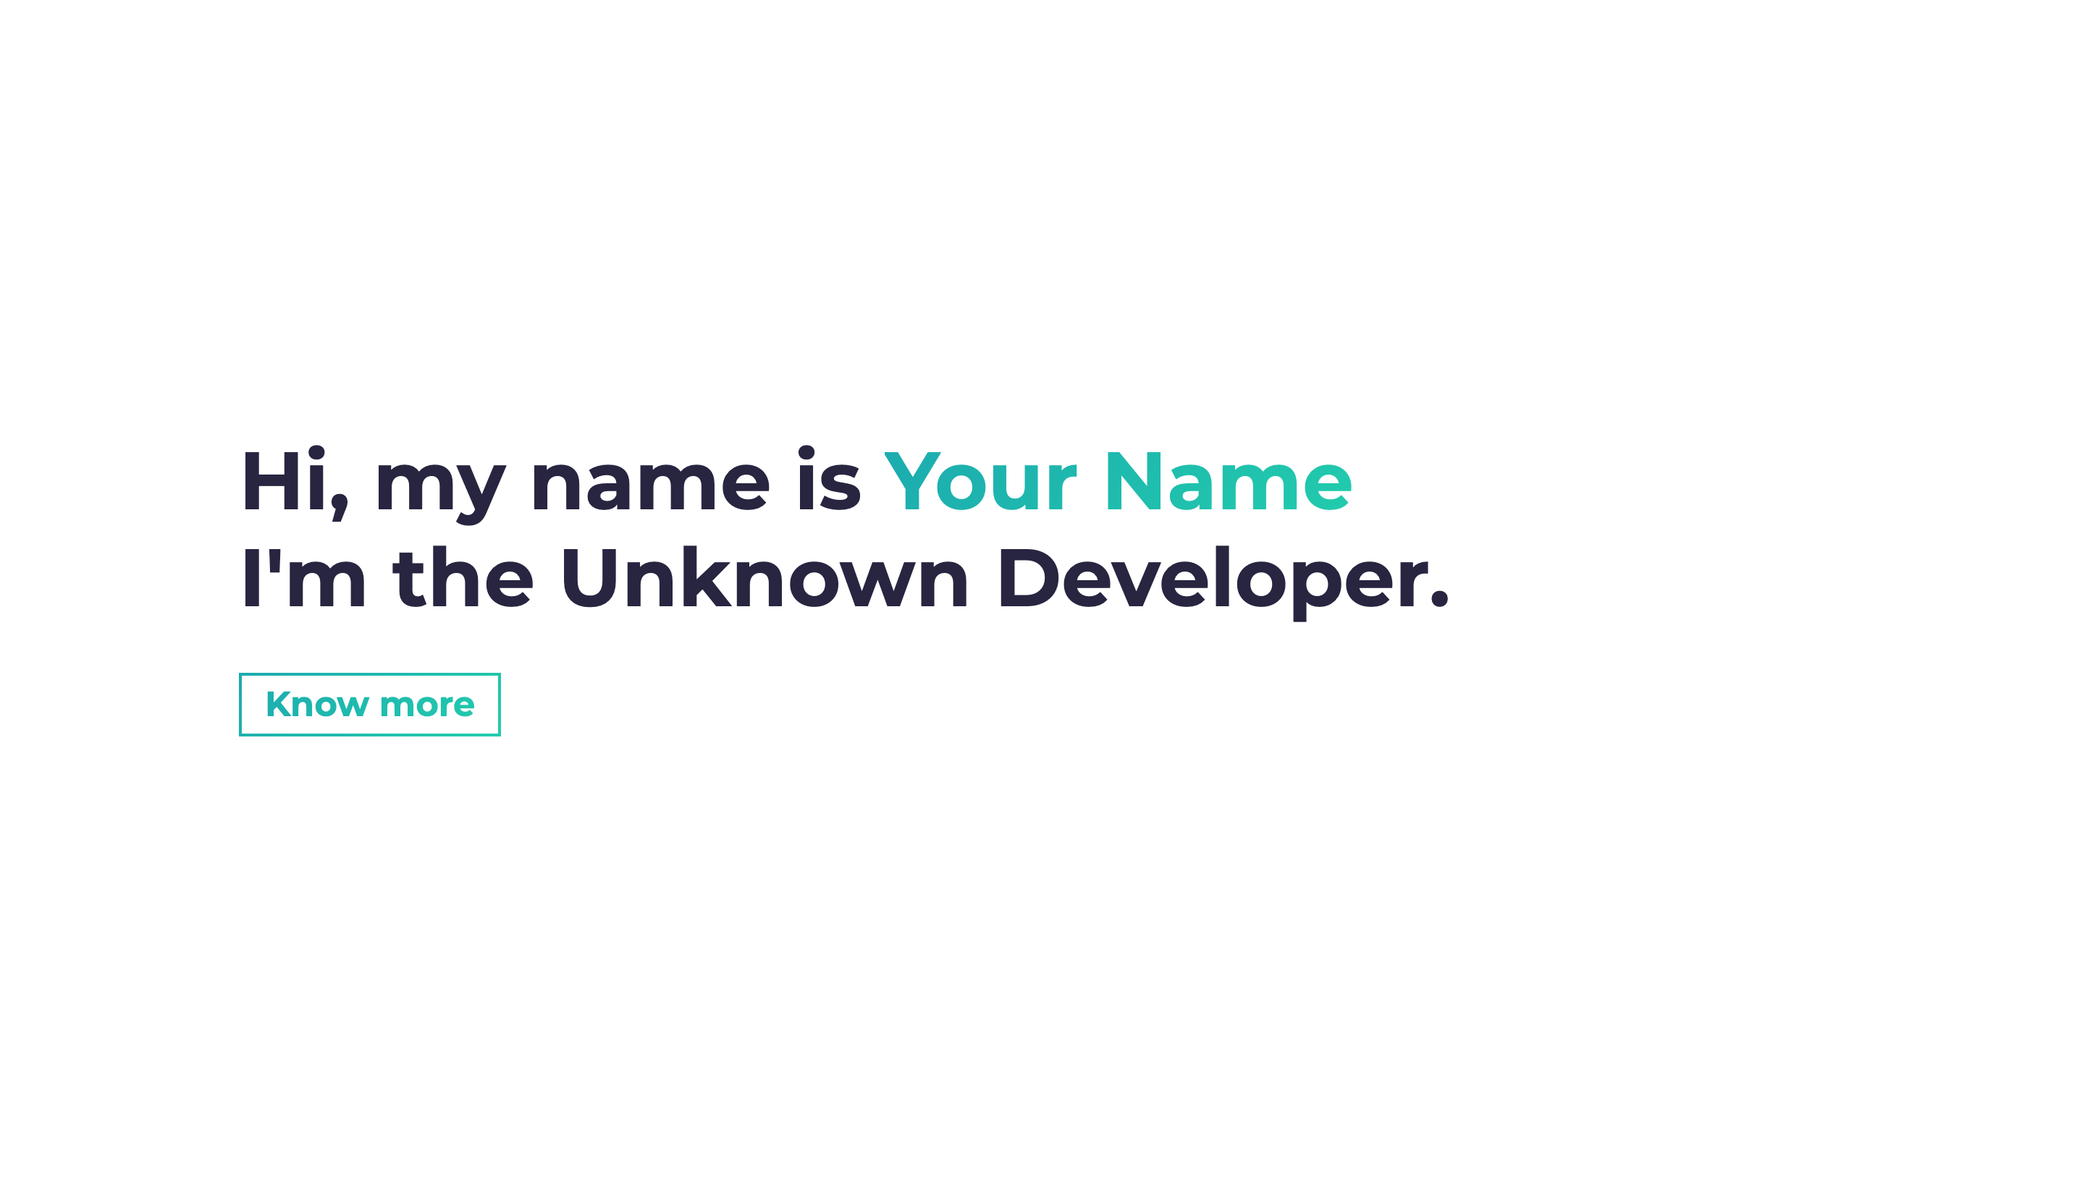
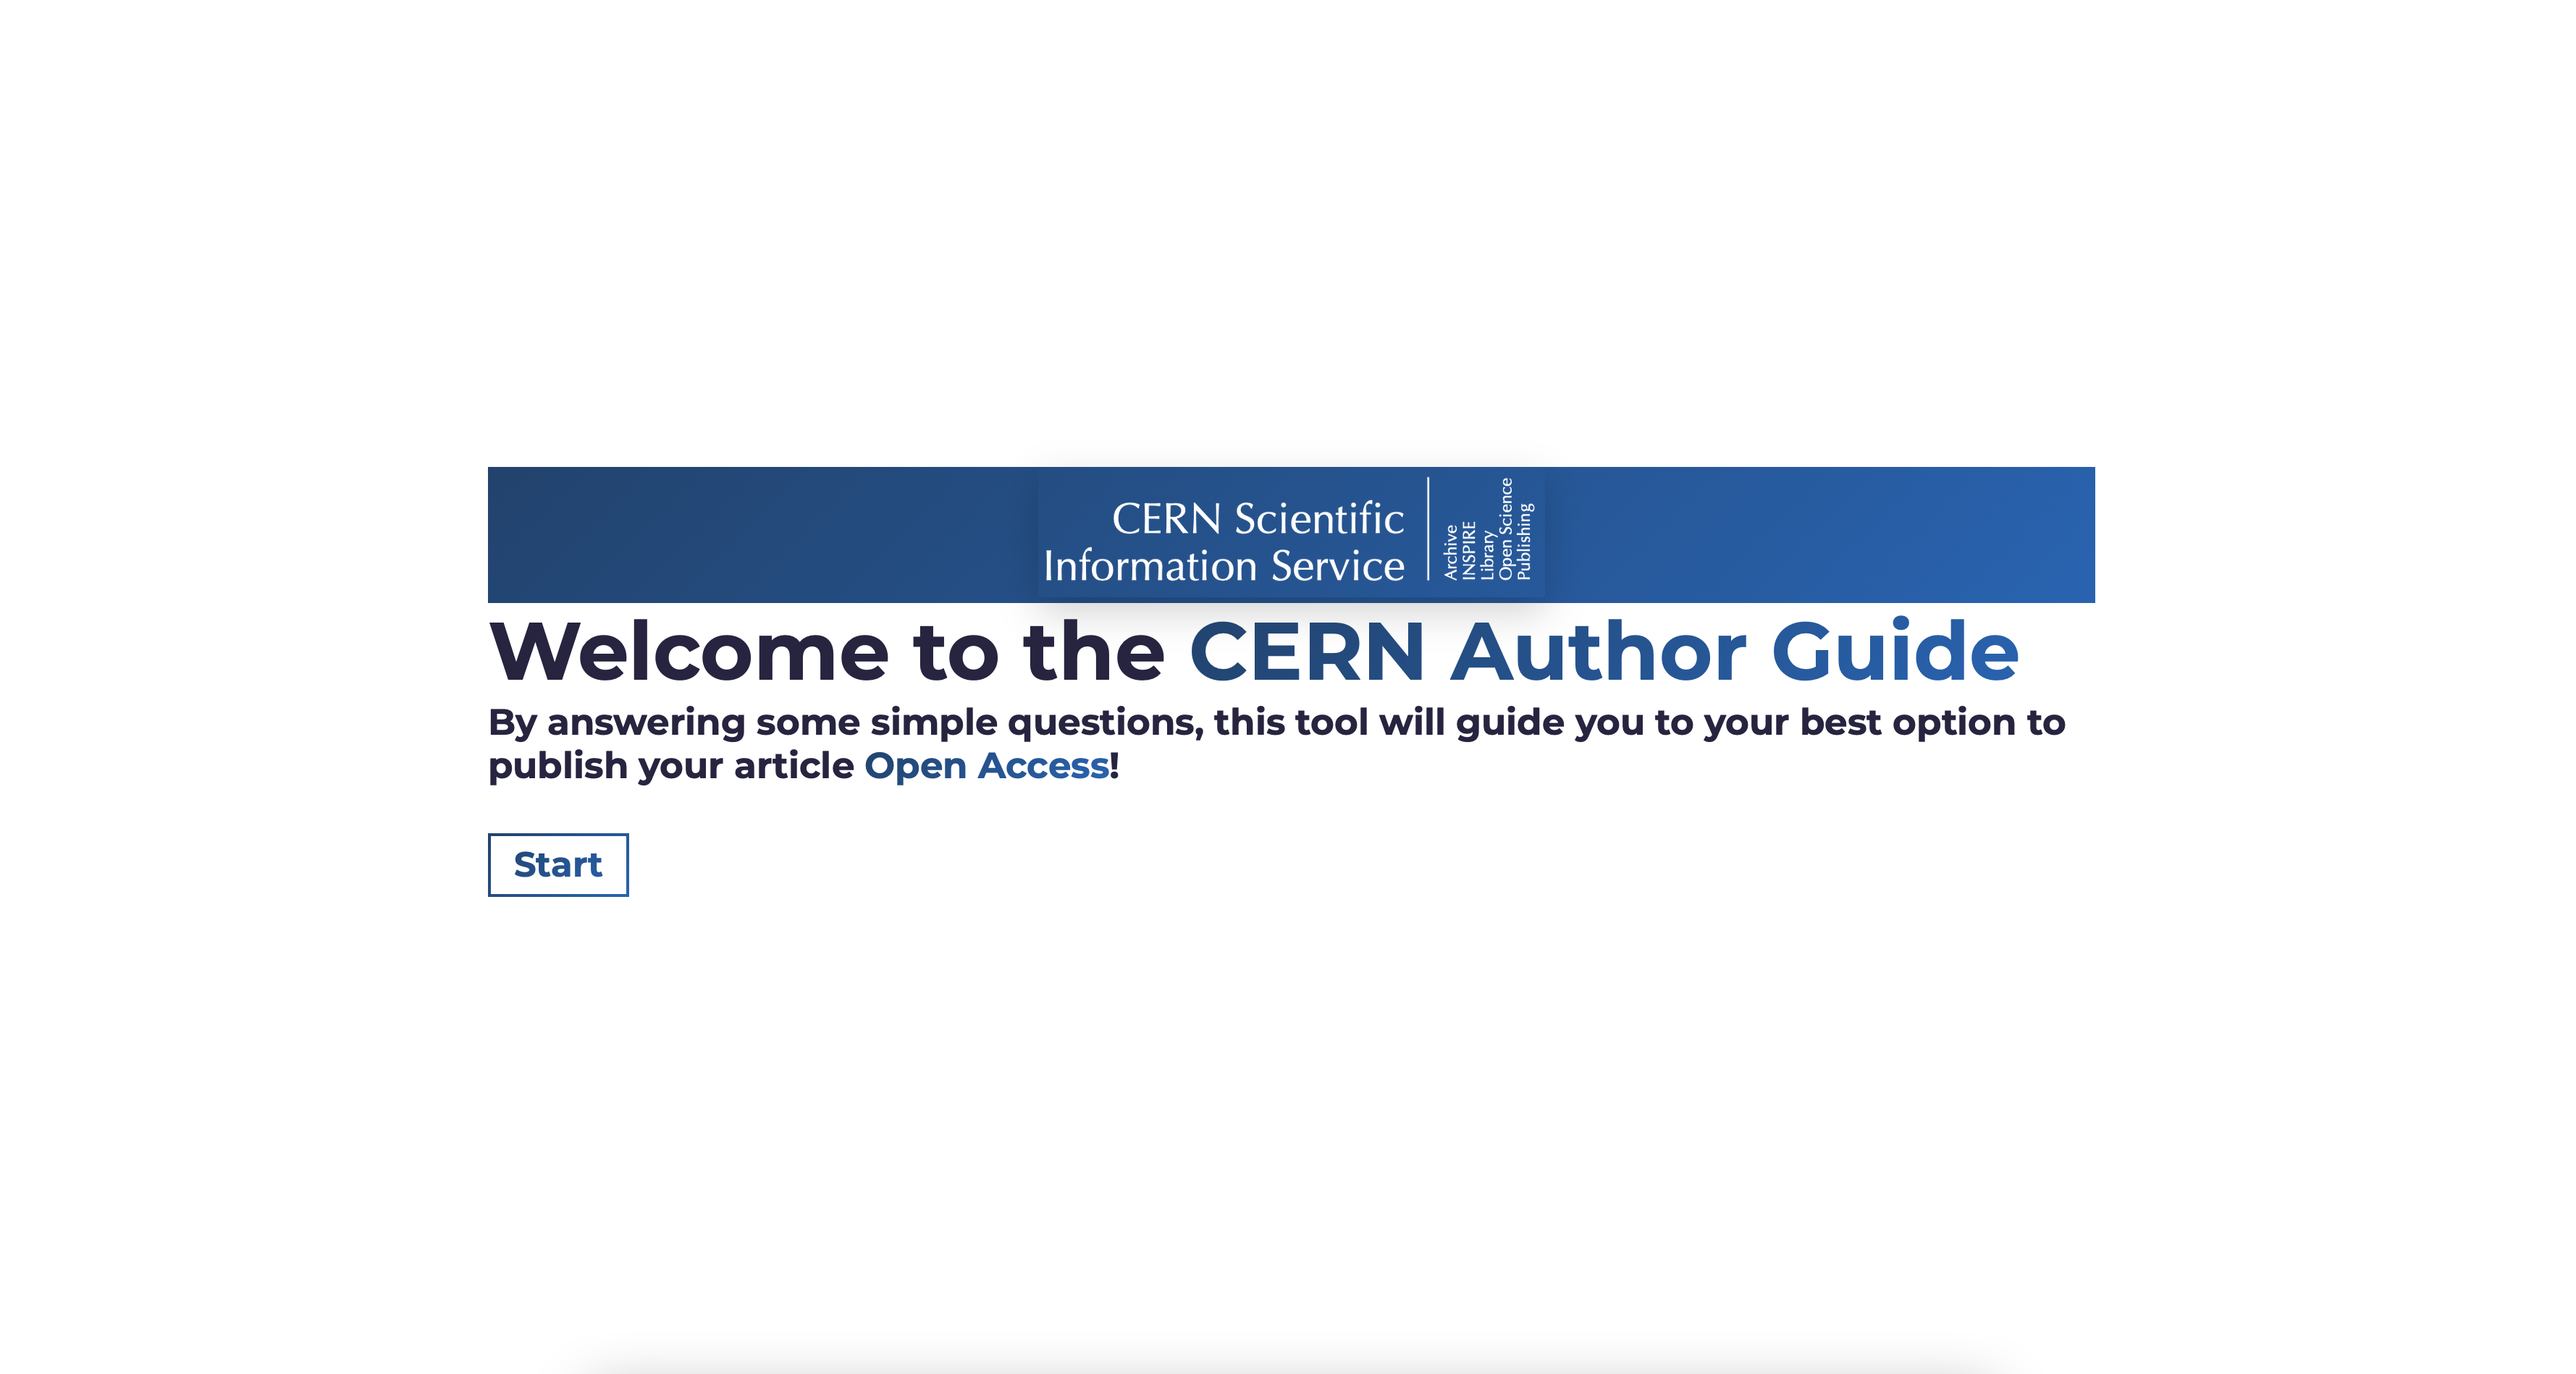
update README and links

Changed region(s): [[0.0938, 0.3425, 0.8125, 0.6538]]

diff --git a/gatsby-config.js b/gatsby-config.js
@@ -31,8 +31,8 @@ module.exports = {
     {
       resolve: `gatsby-plugin-manifest`,
       options: {
-        name: `Gatsby Simplefolio`,
-        short_name: `Simplefolio`,
+        name: `CERN Author Guide`,
+        short_name: `CERN Author Guide`,
         start_url: `/`,
         background_color: `#fff`,
         theme_color: `#02aab0`,

diff --git a/README.md b/README.md
@@ -1,9 +1,7 @@
-# Gatsby Simplefolio ⚡ [![GitHub](https://img.shields.io/github/license/cobidev/gatsby-simplefolio?color=blue)](https://github.com/cobidev/gatsby-simplefolio/blob/master/LICENSE.md) ![GitHub stars](https://img.shields.io/github/stars/cobidev/gatsby-simplefolio) ![GitHub forks](https://img.shields.io/github/forks/cobidev/gatsby-simplefolio)
-
-## A clean, beautiful and responsive portfolio template for Developers
+# CERN SIS Author Guide ⚡
 
 <h2 align="center">
-  <img src="https://github.com/cobidev/gatsby-simplefolio/blob/master/examples/example.gif" alt="Gatsby Simplefolio" width="600px" />
+  <img src="https://github.com/cern-sis/cern-authors-guide/blob/master/examples/example.gif" alt="CERN SIS Author Guide" width="600px" />
   <br>
 </h2>
 
@@ -18,8 +16,7 @@
 ⚡ Easy site customization\
 ⚡ Well organized documentation
 
-To view a demo example, **[click here](https://gatsby-simplefolio.netlify.com/)**\
-To view a live example, **[click here](https://cobidev.com/)**
+To view it live, **[click here](https://scientific-info.cern/cern-authors/)**
 
 ---
 
@@ -49,17 +46,15 @@ yarn@v1.21.1 or higher
 
 ## How To Use 🔧
 
-From your command line, first clone Simplefolio:
+From your command line, first clone the repo:
 
 ```bash
 # Clone this repository
-$ git clone https://github.com/cobidev/gatsby-simplefolio
+$ git clone https://github.com/cern-sis/cern-authors-guide
 
 # Go into the repository
-$ cd gatsby-simplefolio
+$ cd cern-authors-guide
 
-# Remove current origin repository
-$ git remote remove origin
 ```
 
 Then you can install the dependencies either using NPM or Yarn:
@@ -95,7 +90,7 @@ $ sudo npm install --unsafe-perm=true --allow-root
 Once your server has started, go to this url `http://localhost:8000/` and you will see the website running on a Development Server:
 
 <h2 align="center">
-  <img src="https://github.com/cobidev/gatsby-simplefolio/blob/master/examples/example.png" alt="Gatsby Simplefolio" width="100%">
+  <img src="https://github.com/cern-sis/cern-authors-guide/blob/master/examples/example.png" alt="CERN SIS Author Guide" width="100%">
 </h2>
 
 ---
@@ -146,7 +141,7 @@ export const projectsData = [
     info: '',
     info2: '',
     url: '',
-    repo: 'https://github.com/cobidev/react-simplefolio', // if no repo, the button will not show up
+    repo: 'https://github.com/cern-sis/cern-authors-guide', // if no repo, the button will not show up
   },
   {
     id: nanoid(),
@@ -155,7 +150,7 @@ export const projectsData = [
     info: '',
     info2: '',
     url: '',
-    repo: 'https://github.com/cobidev/react-simplefolio', // if no repo, the button will not show up
+    repo: 'https://github.com/cern-sis/cern-authors-guide', // if no repo, the button will not show up
   },
   ...
 ];
@@ -236,10 +231,7 @@ Once you have done with your setup. You need to put your website online!
 
 I highly recommend to use [Netlify](https://netlify.com) to achieve this on the EASIEST WAY
 
-## Others versions 👥
-
-[Simplefolio](https://github.com/cobidev/simplefolio) by [Jacobo Martinez](https://github.com/cobidev)\
-[Ember.js Simplefolio](https://github.com/sernadesigns/simplefolio-ember) by [Michael Serna](https://github.com/sernadesigns)
+Or you can use Github pages
 
 ## Technologies used 🛠
 
@@ -249,18 +241,10 @@ I highly recommend to use [Netlify](https://netlify.com) to achieve this on the 
 - [Bootstrap 4](https://getbootstrap.com/docs/4.3/getting-started/introduction/) - Front-End UI library
 - [Sass](https://sass-lang.com/documentation) - CSS extension language
 
-## Authors
-
-- **Jacobo Martinez** - [https://github.com/cobidev](https://github.com/cobidev)
-
-## Status
-
-[![Netlify Status](https://api.netlify.com/api/v1/badges/2365af6f-820a-4fb8-83e6-69a66f686dfe/deploy-status)](https://app.netlify.com/sites/gatsby-simplefolio/deploys)
-
 ## License 📄
 
 This project is licensed under the MIT License - see the [LICENSE.md](LICENSE.md) file for details
 
 ## Acknowledgments 🎁
 
-I was motivated to create this project because I wanted to contribute on something useful for the dev community, thanks to [ZTM Community](https://github.com/zero-to-mastery) and [Andrei](https://github.com/aneagoie)
+The website is based on the [Gatsby Simplefolio](https://github.com/cobidev/gatsby-simplefolio) project template
